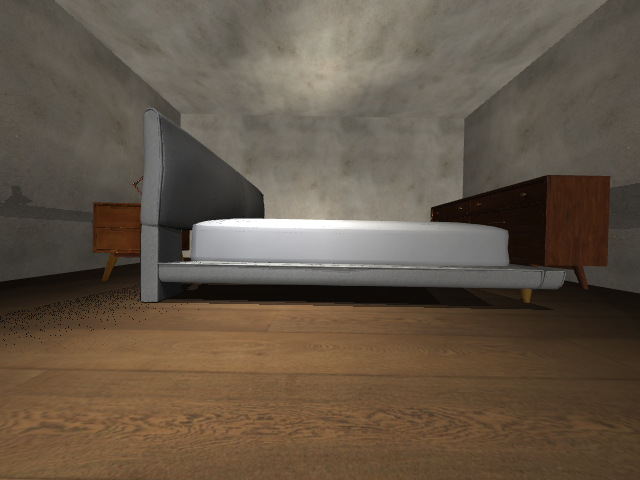
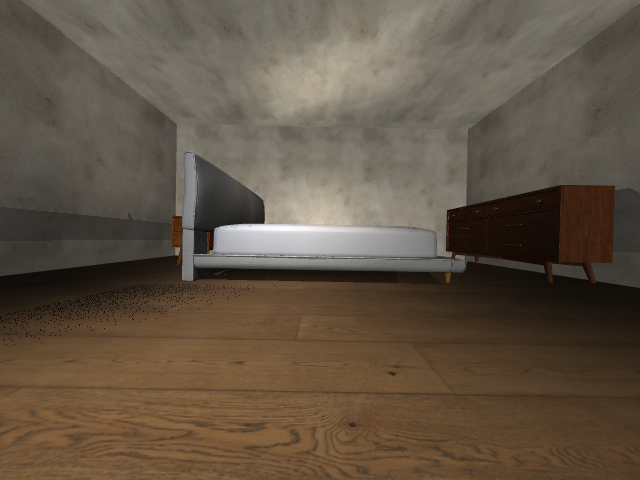
Widen the bedroom and separate the dresser from the bed.
The shell is 4.40 by 5.40 m. The York bed stays on the long wall at product scale, with the nightstand at the head and the dresser on the side wall.

diff --git a/docs/KIT_CAM_ROOM.md b/docs/KIT_CAM_ROOM.md
@@ -11,7 +11,7 @@ Furniture is CC0 textured meshes under `mujoco/assets/rooms/`. Licenses, authors
 | `mujoco/room_kitchen.xml` | `kitchen`, `table`, `chair` | White slab base run and oak uppers on the back wall, sink and faucet on the sightline, freestanding stove at the image-left end. Island and two stools sit image-right so they do not block the run. Faces +X. `kit_cam` stays at standing height about 0.38 m and looks level, so the countertop surface stays above the lens. Cabinets and the island are CC0 textures on boxes. The stove is not a stacked black double oven. The basin is a CC0 bathroom bowl. Closed white room, wood floor. No flat yellow backsplash |
 | `mujoco/room_bathroom.xml` | `bathroom`, `sink`, `toilet`, `bathtub` | Vanity, basin, and mirror against the back-left wall, toilet beside them, stylized tub in the back-right corner. Closed tile room, marble floor |
 | `mujoco/room_living.xml` | `living`, `tv`, `coffee` | Larger leather sofa (`living`) against the back wall, cushions toward +X; coffee table in front; CRT beside the sofa at the same depth, screen toward +X. Closed beige room |
-| `mujoco/room_bedroom.xml` | `bedroom`, `nightstand` | Larger closed shell, about 4.00 m deep by 4.80 m wide. York platform bed (CC BY 4.0) at product scale, long side toward +X, headboard toward image-left, with floor in front and clearance to the walls. Stark nightstand and desk lamp beside the head. Jonathan dresser along the image-right wall |
+| `mujoco/room_bedroom.xml` | `bedroom`, `nightstand` | Closed shell 4.40 m deep by 5.40 m wide. York platform bed (CC BY 4.0) at product scale on the long back wall, long side toward +X, headboard clear of both corners. About 1.48 m of floor in front. Stark nightstand and desk lamp beside the head. Jonathan dresser on the right wall with a clear front |
 | `mujoco/room_entrance.xml` | `entrance`, `mat`, `shoes`, `console` | Static panel in thicker wood trim against the back wall. Hessian mat runs up to the leaf. Boots sit image-right of the mat. Console is image-left, clear of the boots. No hinge, no lever, no latch |
 
 Furniture sits in front of `kit_cam` look (+X), so a quiet stand sees the named room body.

diff --git a/docs/ROOM_ASSETS.md b/docs/ROOM_ASSETS.md
@@ -90,7 +90,7 @@ The ribbed wooden cabinet, the drawer cabinet, the dining table, the dining chai
 
 The placed bedroom bed, nightstand, and dresser are product meshes from [Amazon Berkeley Objects](https://amazon-berkeley-objects.s3.amazonaws.com/index.html). The dataset README licenses the collection under **Creative Commons Attribution 4.0** (`LICENSE-CC-BY-4.0.txt` on that bucket). Commercial use is allowed with attribution. Credit the data to Amazon.com, and credit the dataset to Matthieu Guillaumin, Thomas Dideriksen, Kenan Deng, and Himanshu Arora (Amazon.com) and Jasmine Collins and Jitendra Malik (UC Berkeley).
 
-glTF files were taken from `3dmodels/original/` on the official bucket, rotated from Y-up to Z-up (`x' = x`, `y' = -z`, `z' = y`), floor-centered, and written as one OBJ plus a 1024 px PNG of the base-color texture. The bed and the dresser are at product scale. The bedroom shell is larger than the other rooms so those meshes have clearance: inner floor about 4.00 m deep by 4.80 m wide, versus 3.12 m by 3.55 m before. About 0.31 m stays behind the bed, 0.25 m between the bed and the nightstand, 0.36 m between the bed and the dresser, and about 1.0 m of floor stays in front of the bed.
+glTF files were taken from `3dmodels/original/` on the official bucket, rotated from Y-up to Z-up (`x' = x`, `y' = -z`, `z' = y`), floor-centered, and written as one OBJ plus a 1024 px PNG of the base-color texture. The bed, nightstand, and dresser stay at product scale. The bedroom inner floor is 4.40 m deep by 5.40 m wide (about 23.8 m²). The previous shell was 4.00 m by 4.80 m. The queen sits on the long back wall, about 0.12 m off that wall and about 1.5 m clear of each side corner. About 1.48 m of floor stays in front of the bed. The Stark nightstand is 0.18 m off the head and 0.88 m from the left wall. The Jonathan dresser is on the right wall, 0.10 m off that wall, with 0.92 m of clear floor in front of the drawers.
 
 | Repo file | Product | Source id | Page |
 |-----------|---------|-----------|------|
